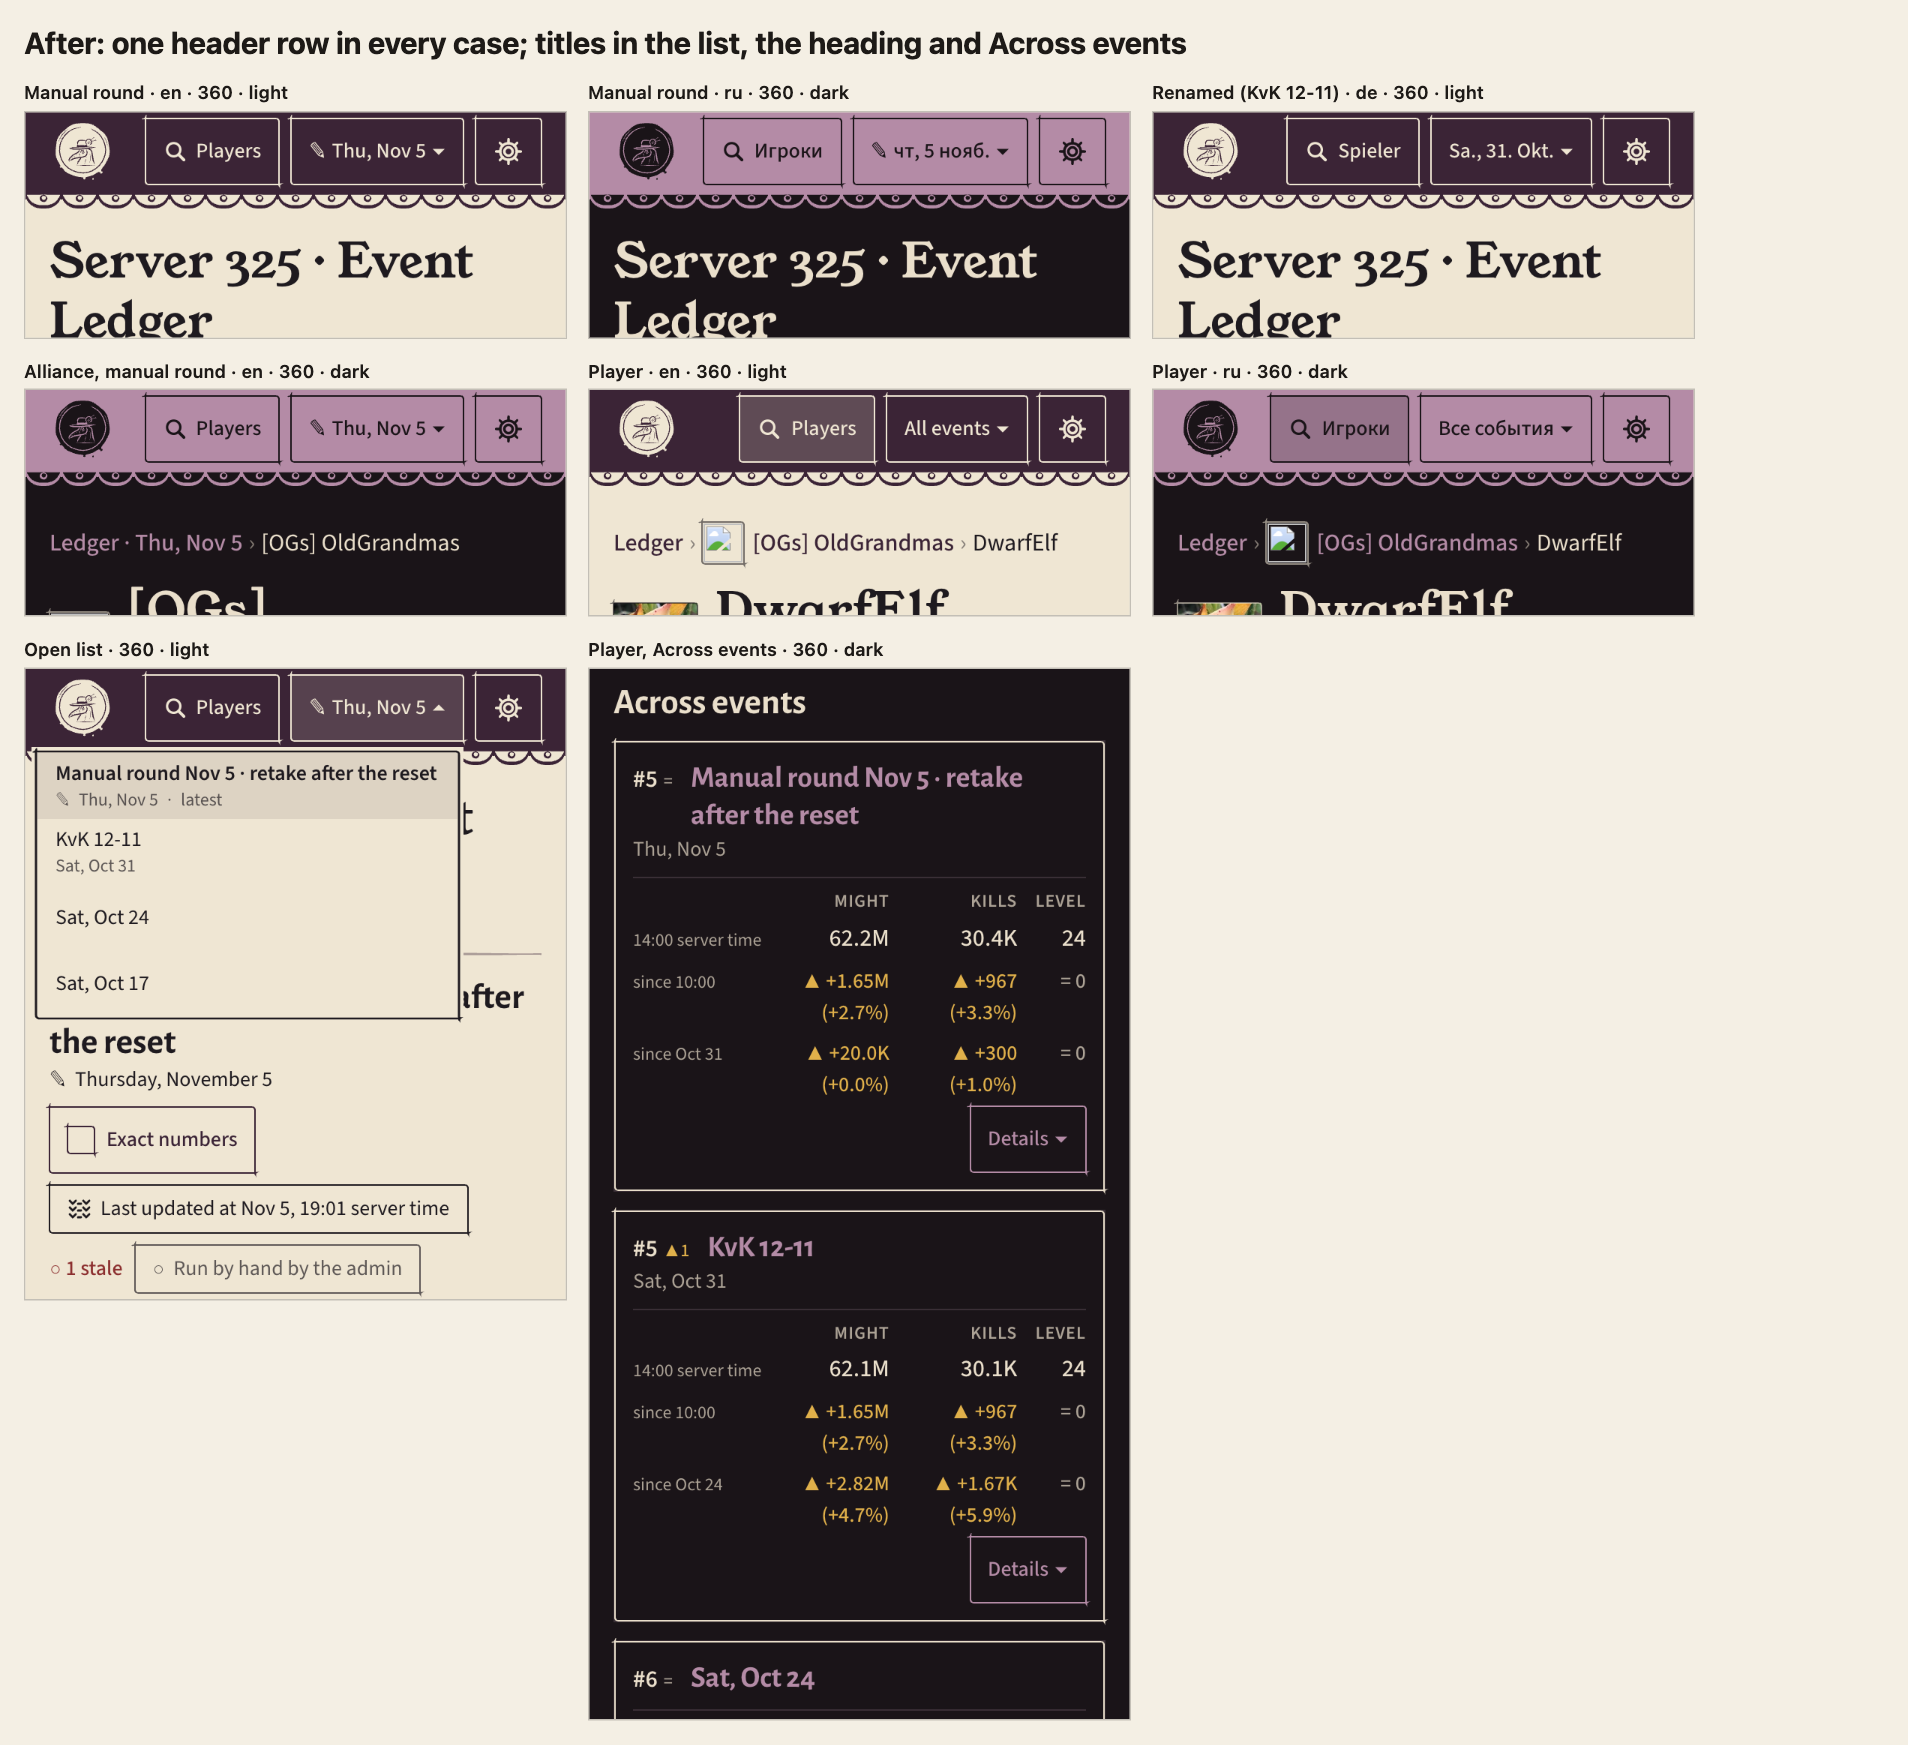
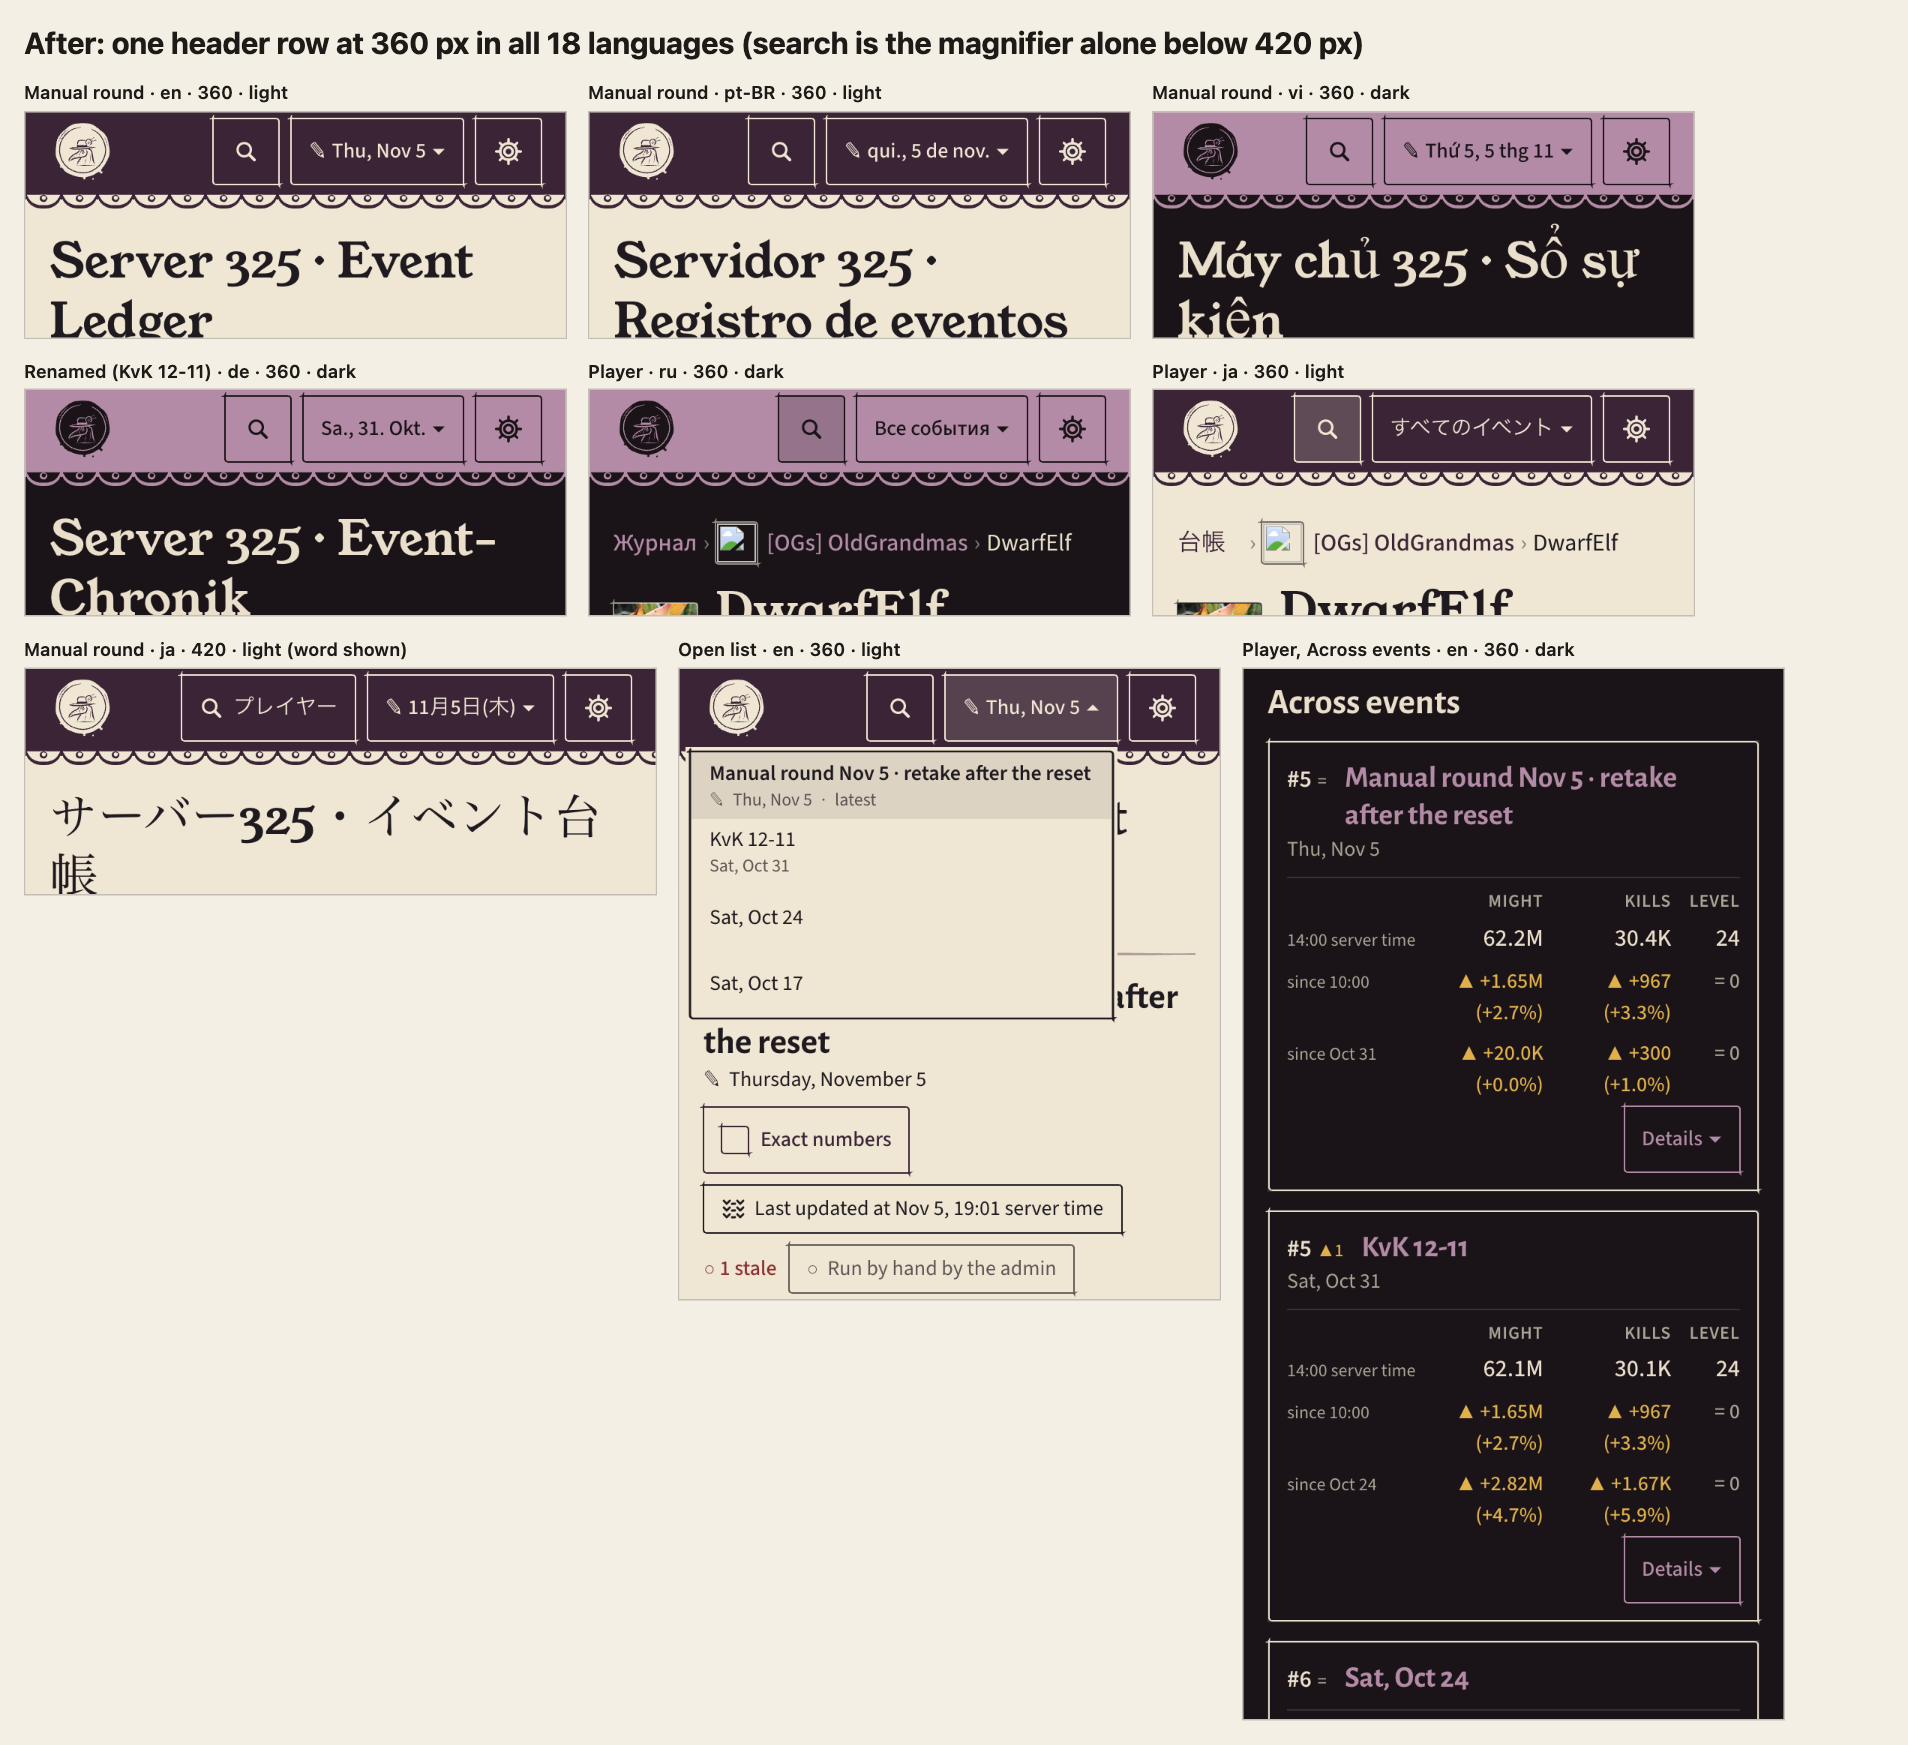
feat(header): search is the magnifier alone below 420 px
With the 18 real dictionaries the search word plus the closed event
selector needed up to 262 px where 360 px leaves 216 (ja, pt-BR, fr,
pl, es, vi), and in ja and ko the squeezed link wrapped its word. Below
420 px the word is screen-reader only and the link is a 44 px square;
from 420 px up it fits in every language. Owner's choice, D49.

diff --git a/app/_ui/SiteHeader.tsx b/app/_ui/SiteHeader.tsx
@@ -4,7 +4,8 @@
 // The selector is a <details> list of links, so it works without JavaScript and every target is ≥ 44 px;
 // with it, Escape and a tap outside close it. Closed, it shows the event's date only, so it stays one
 // line in any language (D49); its list and the page show the title. Below 640 px the wordmark is
-// screen-reader only: the mark, three controls and the gutters fill 360 px.
+// screen-reader only, and below 420 px so is the word next to the magnifier: in the longest languages
+// (ja, pt-BR, fr) the word and the selector need up to 262 px, and 360 px leaves them 216.
 import Link from "next/link";
 
 import { LaceBorder } from "@/lib/brand/components/LaceBorder";
@@ -140,10 +141,10 @@ export function SiteHeader({
             <Link
               href="/players"
               aria-current={section === "players" ? "page" : undefined}
-              className={`drawn-frame-soft flex min-h-11 items-center gap-1.5 px-3 text-sm font-medium aria-[current=page]:bg-paper/20 ${CONTROL}`}
+              className={`drawn-frame-soft flex min-h-11 min-w-11 items-center justify-center gap-1.5 whitespace-nowrap px-3 text-sm font-medium aria-[current=page]:bg-paper/20 ${CONTROL}`}
             >
               <Magnifier />
-              {copy.site.players}
+              <span className="sr-only min-[420px]:not-sr-only">{copy.site.players}</span>
             </Link>
             {clock && events.length > 0 && (
               <EventSelector events={events} currentId={currentId} clock={clock} copy={copy} />

diff --git a/docs/handoff/08zj-header-selector.md b/docs/handoff/08zj-header-selector.md
@@ -10,6 +10,7 @@
   - With no current event (the player page and /players) it reads "All events" (`copy.site.allEvents`) instead of "Events".
   - `whitespace-nowrap` keeps it to one line.
 - The selector's list: each row is the event's title. Under the title, in small text, are the ✎ mark, the date and "latest". An event with no title shows its date alone, plus "latest" on the newest one.
+- Below 420 px the header's search link is the magnifier alone, a 44 px square; its word stays for screen readers (`sr-only min-[420px]:not-sr-only`). This is the owner's choice after the merge with #136, recorded in D49.
 - `app/_ui/EventLabel.tsx`:
   - `eventTitle(e)` returns the event's name for a manual round or a renamed event. It returns null while a scheduled event keeps its generated name.
   - `EventLabel` renders the title, or else the weekday date.
@@ -59,16 +60,17 @@
 - Accessible name of the closed selector (text content including screen-reader text):
   - "Manual round: Manual round Nov 5 · retake after the reset, Thu, Nov 5 ▾"
   - "KvK 12-11, Sat, Oct 31 ▾"
+- After the merge with #136, real dictionaries, `lang` cookie, all 18 languages:
+  - Manual-round event page and player page at 320, 360 and 420 px, light.
+  - Manual-round, renamed and player pages at 360 px, dark.
+  - 162 captures. Header 64 px, one row, no control past the right edge, except the player page at 320 px in fr and pl (see Open issues).
+  - Before the magnifier-only change, the search word plus the selector needed up to 262 px where 216 px is left at 360 px (ja "All events" 46 px over).
 - `pnpm check`: green (prettier, eslint, tsc, 38 test files / 163 tests, drift check).
 
 ## Open issues
 
 - Pre-existing, not fixed, the owner was told: the selector's first row ("latest") links to `/`. `/` shows the newest scheduled event (D28), so when a manual round is the newest event, "latest" opens the scheduled event, not the round. Checked locally: `/` rendered "Saturday, October 31" while the round was newest. `crumbsFor` on the alliance page has the same `events[0]` → `/` rule.
-- Real dictionaries (#136) break "one row at 360 px" in some languages. Measured at 360 px: Players + selector need at most 216 px.
-  - Event page, manual round: pt-BR over by 26 px, ja by 24, vi by 31, ko by 2. The cause is the translated Players word plus the localized weekday date.
-  - Player page, "All events": es over by 34 px, pt-BR 30, fr 38, pl 36, tr 18, ja 46, vi 11, it 6.
-  - In ja and ko the squeezed Players link wraps inside its box.
-  - Not fixed here: it needs the owner's choice. Either Players shows the magnifier alone below 400 px, or the date drops the weekday below 400 px and the selector truncates as a last resort.
+- At 320 px the player page's "All events" still overflows its box in fr ("Tous les événements") and pl ("Wszystkie wydarzenia"). 360 px is the design width.
 - The ✎ mark is new and has no entry in the legend. DESIGN.md's legend lists arrows, the stale mark, the rounded mark and `[TEST]`.
 
 ## Next

diff --git a/docs/DECISIONS.md b/docs/DECISIONS.md
@@ -381,7 +381,8 @@ Members play from many countries. The owner asked for translation in v1.1 rather
 - **Why.** A member's 360 px screenshots: with a manual round selected the closed selector wrapped to three lines (seven with a long name), and on dev the header grew from 64 px to 140–160 px at 320, 360 and 390 px in English, German and Russian, with the settings gear pushed off-screen at 320 and 360. A renamed event ("KvK 12-11", D39) was shown nowhere: every label used the weekday.
 - **Title.** An event is named by its title: a manual round's name (D28) or the name the owner gave a scheduled event (D39). While a scheduled event keeps its generated name ("Saturday Event 2026-10-31", `isGeneratedName` in `lib/schedule.ts`) it is named by its date, because that name is English and says no more than the date. This applies to the selector's list, the event page's heading and the player's "Across events" rows; each shows the date under a title. A manual round carries a ✎ mark whose screen-reader text is "Manual round".
 - **Closed selector.** It shows the date only (`Thu, Nov 5` at 360 px and up, `Nov 5` below), with the ✎ mark for a manual round, so it is one line in any language; its accessible name carries the full title. Options weighed with the owner: the title cut with an ellipsis ("✎ Manual ro…" at 360 px), the selector moved under the header (scrolls away, repeats the title on the event page), and a calendar icon with no current event in the sticky header (the viewer loses which event a long alliance page is on).
-- **Pages that span every event.** The player page and /players have no current event; the closed selector reads "All events" there instead of "Events", which read as if the choice had been lost. At 320 px "Alle Ereignisse" (de) and "Все события" (ru) overflow their box; 360 px is the design width.
+- **Pages that span every event.** The player page and /players have no current event; the closed selector reads "All events" there instead of "Events", which read as if the choice had been lost.
+- **Search link below 420 px: the magnifier alone** (owner, after the merge with #136). With the real dictionaries, the search word plus the closed selector needs up to 262 px at 360 px, where 216 px is left. The worst cases are "All events" in ja (46 px over), fr, pl, es and pt-BR, and a manual round's date in vi, pt-BR and ja. In ja and ko the squeezed link also wrapped its word. Below 420 px the word is screen-reader only and the link is a 44 px square. The magnifier is one of DESIGN.md's universal symbols. From 420 px up, the word fits in every language. The other option, a date without the weekday plus an ellipsis, would have cut "All events" in several languages.
 
 ## D50 — An officer's mark comes from the title text, with the in-game names as aliases (2026-11-05, 08zx, owner)
 

diff --git a/docs/DESIGN.md b/docs/DESIGN.md
@@ -297,7 +297,7 @@ Paper does not have rounded corners.
 
 The whole list. Anything else is a composition of these; a new one needs a line here first.
 
-- **`header`** — wordmark + lace border + event selector + settings gear. Plum field, paper text, sticky and compact on phones. One row of 44 px controls at 360 px in every language.
+- **`header`** — wordmark + lace border + event selector + settings gear. Plum field, paper text, sticky and compact on phones. One row of 44 px controls at 360 px in every language: below 420 px the search link is the magnifier alone (its word stays for screen readers), because the translated word plus the selector needs up to 262 px and 360 px leaves 216 (D49).
 - **`event-selector`** — the header's `<details>` list of events (`app/_ui/SiteHeader.tsx`, D49). Closed, it shows the current event's date only (`Thu, Nov 5`; `Nov 5` below 360 px) with the ✎ mark for a manual round, never its title, so it never wraps; its accessible name carries the full title. On the player pages, which span every event, it reads "All events". Open, each row is the event's title (`EventLabel`: a manual round's or a renamed event's name, else the date) with the date and "latest" in small text under it.
 - **`theme-switch`** — one 44 px button showing the current mode (sun / moon icon), `role="switch"`, accessible name "Dark mode". Sets `data-theme` on `<html>` and a one-year `theme` cookie (owner, 2026-11-04). Since D38 it sits only in /brand's own header; the site header has the theme inside `viewer-settings`.
 - **`viewer-settings`** — the settings gear, the last control in the header (`app/_ui/ViewerSettings.tsx`, `lib/brand/components/Gear.tsx`; owner, 2026-11-05, D38). A 44 px `<details>` like the event selector; its panel opens with Language, a native `select` listing each language in its own name (D48), then three groups of `radio-field`s: Theme (sun Light / moon Dark), Times (Server time / Your time with the zone's city under it) and Dates (Auto with the locale's own sample, then one sample per order, all on Oct 31 so the order shows). Each choice is a one-year SameSite=Lax cookie (`lang`, `theme`, `tz`, `date`); language, times and dates re-render the page on the server. The panel is drawn only once opened, so nothing in it is server-rendered. On /admin it holds the theme only.
